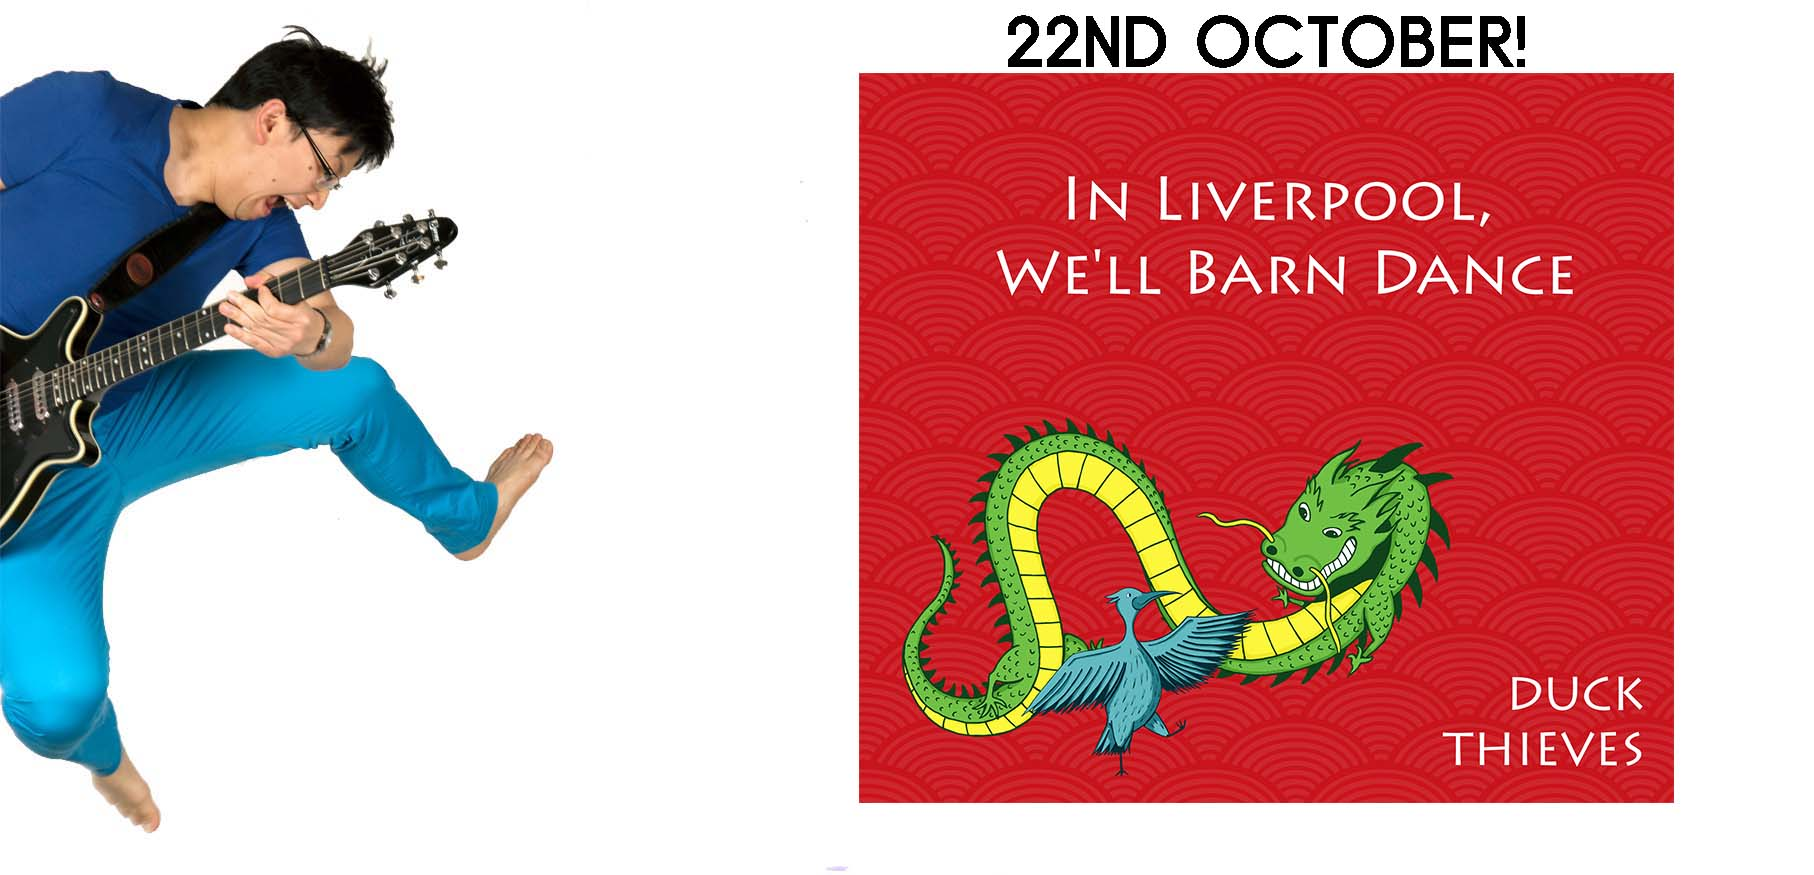
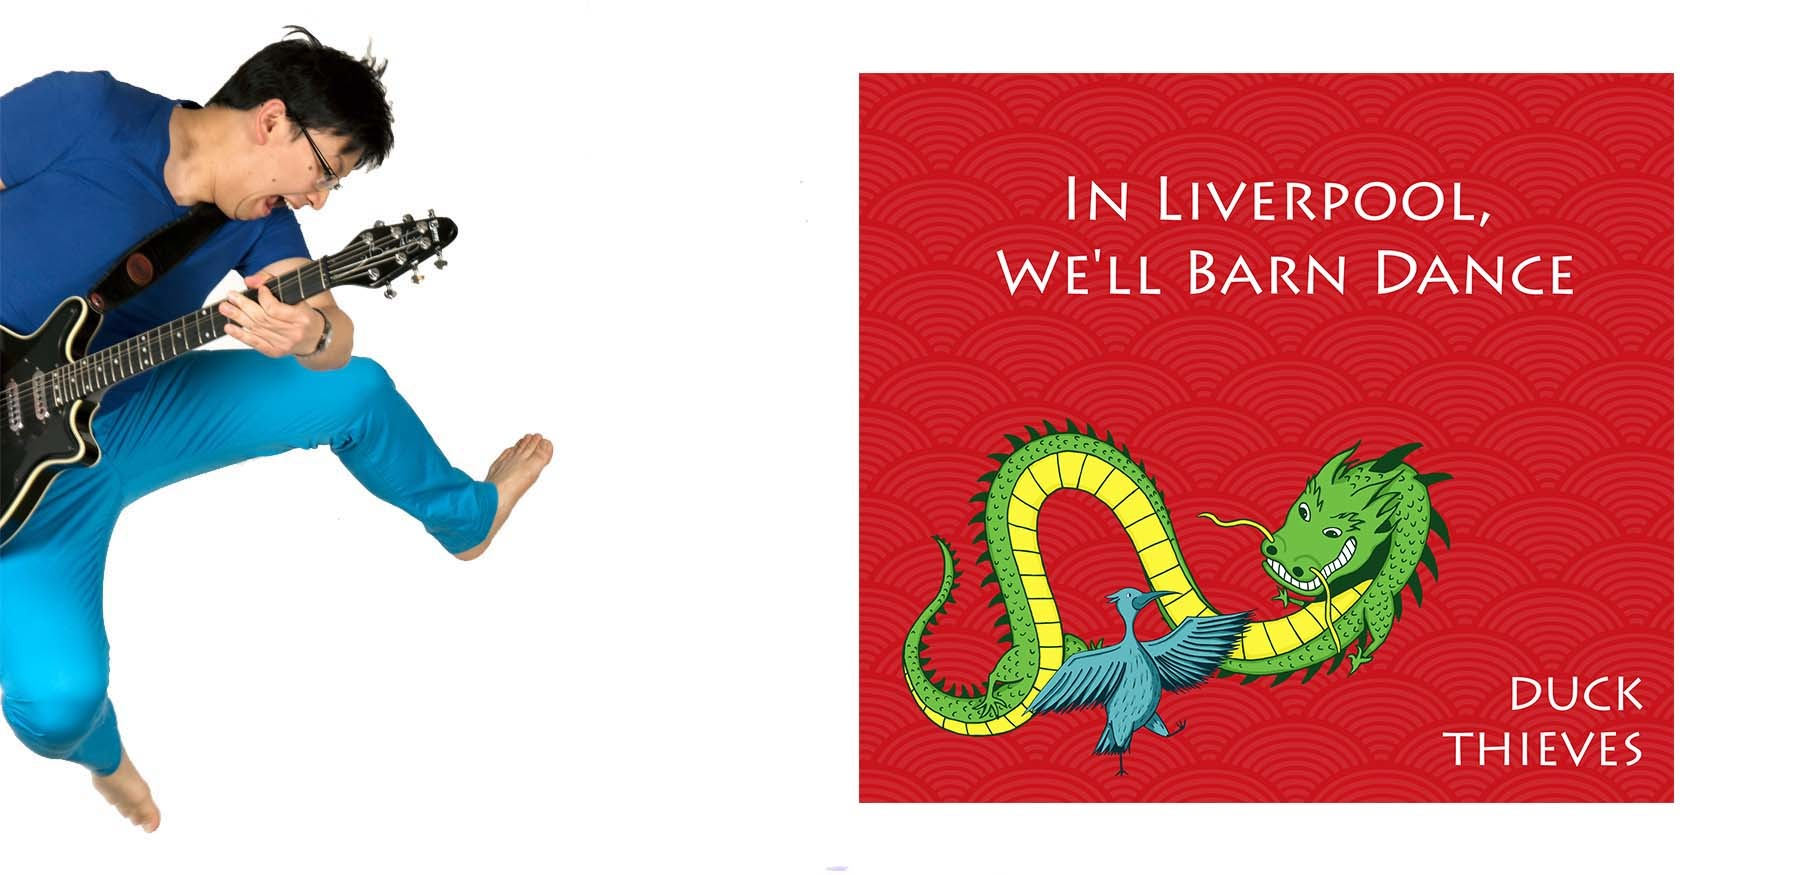
Updated with Liverpool links

Changed region(s): [[0.5557, 0.0, 0.8644, 0.0926]]

diff --git a/index.html b/index.html
@@ -64,7 +64,7 @@
 	<img class="animated bounceInLeft" src="images/liverpool-bg.jpg" alt="banner" />
     <div class="container banner-content">
       <div class="hero-text animated fadeInDownBig">
-        <h1 class="responsive-headline">Find out more!</h1>
+        <h1 class="responsive-headline">Listen Now!</h1>
 				<a href="#basics" class="arrow-link"> <i class="fa fa-chevron-down"></i> </a> 
       </div>
     </div>
@@ -105,30 +105,27 @@ DUCK THIEVES live shows are like over the top indie musicals with costume change
 						<li>Critique</li>
 						<li>Let's Fail Together</li>
 					</ol>
-					<p>Available to stream from the 22nd October!  <a href="http://eepurl.com/cgDG_5">Subscribe to get notified!</a></p>
-					<!--<div>
-						<a href="https://duckthieves.bandcamp.com/album/copycat-ep">
+					<div>
+						<a href="https://duckthieves.bandcamp.com/album/in-liverpool-well-barn-dance">
 							<img class="release_streaming_service" src="images/streaming/bandcamp.jpg" alt="Bandcamp"/>
 						</a>
-						<a href="https://play.spotify.com/album/6zlGMnymRNmnvEeBvKfjqs">
-						<img class="release_streaming_service" src="images/streaming/spotify.jpg" alt="Spotify"/>
+						<a href="https://open.spotify.com/album/24nPJ9B90yTCDWhhvLb4y4">
+							<img class="release_streaming_service" src="images/streaming/spotify.jpg" alt="Spotify"/>
 						</a>
-						<a href="https://www.deezer.com/album/12461846">
-						<img class="release_streaming_service" src="images/streaming/deezer.jpg" alt="Deezer"/>
+						<a href="http://www.deezer.com/album/14155944">
+							<img class="release_streaming_service" src="images/streaming/deezer.jpg" alt="Deezer"/>
 						</a>
-						<a href="http://listen.tidal.com/album/57530875">
-						<img class="release_streaming_service" src="images/streaming/tidal.jpg" alt="Tidal"/>
+						<a href="https://listen.tidal.com/album/65407188">
+							<img class="release_streaming_service" src="images/streaming/tidal.jpg" alt="Tidal"/>
 						</a>
-						<a href="https://itunes.apple.com/gb/album/copycat-single/id1086046212">
-						<img class="release_streaming_service" src="images/streaming/itunes.jpg" alt="iTunes"/>
+						<a href="https://itunes.apple.com/gb/album/in-liverpool-well-barn-dance/id1159507192">
+							<img class="release_streaming_service" src="images/streaming/itunes.jpg" alt="iTunes"/>
 						</a>
-						<a href="https://play.google.com/store/music/album/Duck_Thieves_Copycat?id=B2pqotc33bvxtcm6tbtf7u4ioeq">
-						<img class="release_streaming_service" src="images/streaming/googleplay.jpg" alt="Google Play"/>
 						</a>
-						<a href="https://www.amazon.com/gp/product/B01BYEYE5C">
-						<img class="release_streaming_service" src="images/streaming/amazon_com.jpg" alt="Amazon.com"/>
+						<a href="https://play.google.com/store/music/album/Duck_Thieves_In_Liverpool_We_ll_Barn_Dance?id=B5j5tesvuty2vpvxtyl7y6zjida">
+							<img class="release_streaming_service" src="images/streaming/googleplay.jpg" alt="Google Play"/>
 						</a>
-					</div>-->
+					</div>
 			</div>
 		</div>
   	<div class="release">
@@ -159,9 +156,6 @@ DUCK THIEVES live shows are like over the top indie musicals with costume change
 					</a>
 					<a href="https://play.google.com/store/music/album/Duck_Thieves_Copycat?id=B2pqotc33bvxtcm6tbtf7u4ioeq">
 					<img class="release_streaming_service" src="images/streaming/googleplay.jpg" alt="Google Play"/>
-					</a>
-					<a href="https://www.amazon.com/gp/product/B01BYEYE5C">
-					<img class="release_streaming_service" src="images/streaming/amazon_com.jpg" alt="Amazon.com"/>
 					</a>
 				</div>
 			</div>
@@ -196,9 +190,6 @@ DUCK THIEVES live shows are like over the top indie musicals with costume change
 			  </a>
 			  <a href="https://play.google.com/store/music/album/Duck_Thieves_Act_One?id=Bn6lr3kisp5aknl6u5mbu55gz4a">
 				<img class="release_streaming_service" src="images/streaming/googleplay.jpg" alt="Google Play"/>
-			  </a>
-			  <a href="https://www.amazon.com/gp/product/B01557XHCA">
-				<img class="release_streaming_service" src="images/streaming/amazon_com.jpg" alt="Amazon.com"/>
 			  </a>
 			</div>
 		</div>
